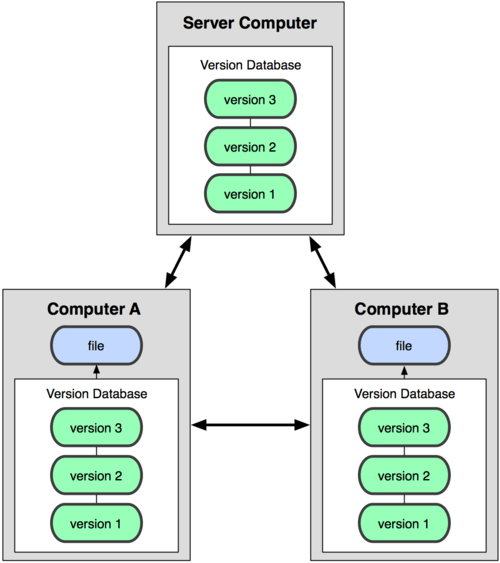
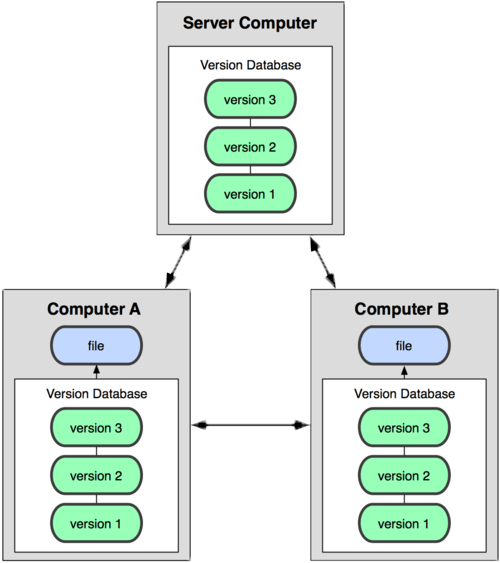
Modified image layout

diff --git a/css/presentation_style.css b/css/presentation_style.css
@@ -117,8 +117,8 @@ a:focus {
     text-align: justify;
     padding: 2px;
  }
- 
-.step {
+
+ .step {
     position: relative;
     width: 900px;
     padding: 40px;
@@ -138,7 +138,7 @@ a:focus {
 .step .footref{
     position: absolute;
     font-size: 20px; 
-    bottom: -220px;
+    bottom: 0px;
     right: 0px;
 }
     
@@ -155,9 +155,20 @@ a:focus {
 
 .impress-enabled .step.active { opacity: 1 }
 
+.imgslide {
+    display: block;
+    width: 1000px;
+    height: 700px;
+    padding: 0px;
+    margin: 0 auto;
+  
+    position: absolute;
+
+    -webkit-transform: translate3d(0, 0, 0);
+}
+
 .slide {
     display: block;
-
     width: 900px;
     height: 700px;
     padding: 40px 60px;
@@ -247,29 +258,29 @@ a:focus {
 }
 
 #history .im1 {
-    position: absolute;
-    left: -300px;
-    top: -300px;
-    height: 100;
-    width: 200;
+    position: inherit;
+    top: 0px;
+    left: 0px;
+    height: 45%;
+    width: 30%;
     z-index: -1;
 }
 
 #history .im2 {
-    position: absolute;
-    right: -300px;
-    top: -300px;
-    height: 300;
-    width: 200;
+    position: inherit;
+    right: 0px;
+    top: 0px;
+    height: 45%;
+    width: 35%;
     z-index: -3;
 }
 
 #history .im3 {
-    position: absolute;
-    bottom: -300px;
-    left: 160px;
-    height: 30;
-    width: 20;
+    position: inherit;
+    bottom: 0px;
+    left: 280px;
+    height: 70%;
+    width: 45%;
     z-index: -5;
 }
 

diff --git a/index.html b/index.html
@@ -34,14 +34,14 @@
         <q><b class="head">Why version control??</b></q><br/>
         <img src="images/version_control.png" alt="gitk" border="0">
     </div>
-    
-    <div id="history" class="step" data-x="6000" data-y="5000">
+        
+    <div id="history" class="step imgslide" data-x="6000" data-y="5000" data-scale="0.2">
         <span class="footref">Ref:<a href="http://git-scm.com/book/en/Getting-Started-About-Version-Control">git-scm.com/book</a> </span>
         <img class="im1" src="images/local_version_control.png" alt="local_version_control" border="0">
         <img class="im2" src="images/centralized_version_control.png" alt="centralized version control" border="0">
         <img class="im3" src="images/distributed_version_control.png" alt="distributed version control" border="0">
     </div>
-
+    
     <div id="installation" class="step slide" data-x="4000" data-y="5000">
 		<q><b class="head">Installation</b></q><br/>
         <p>Linux<br/>      
